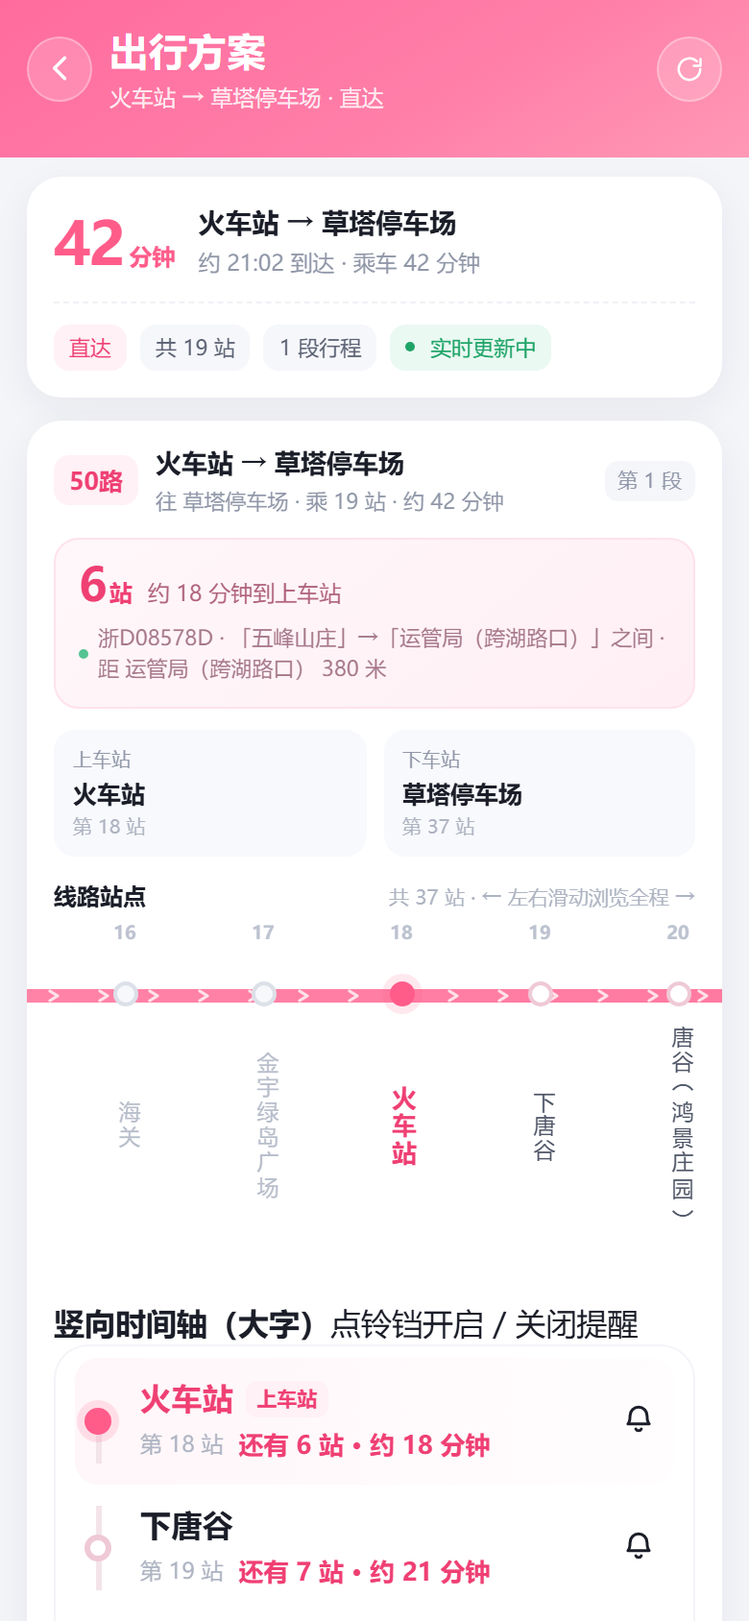
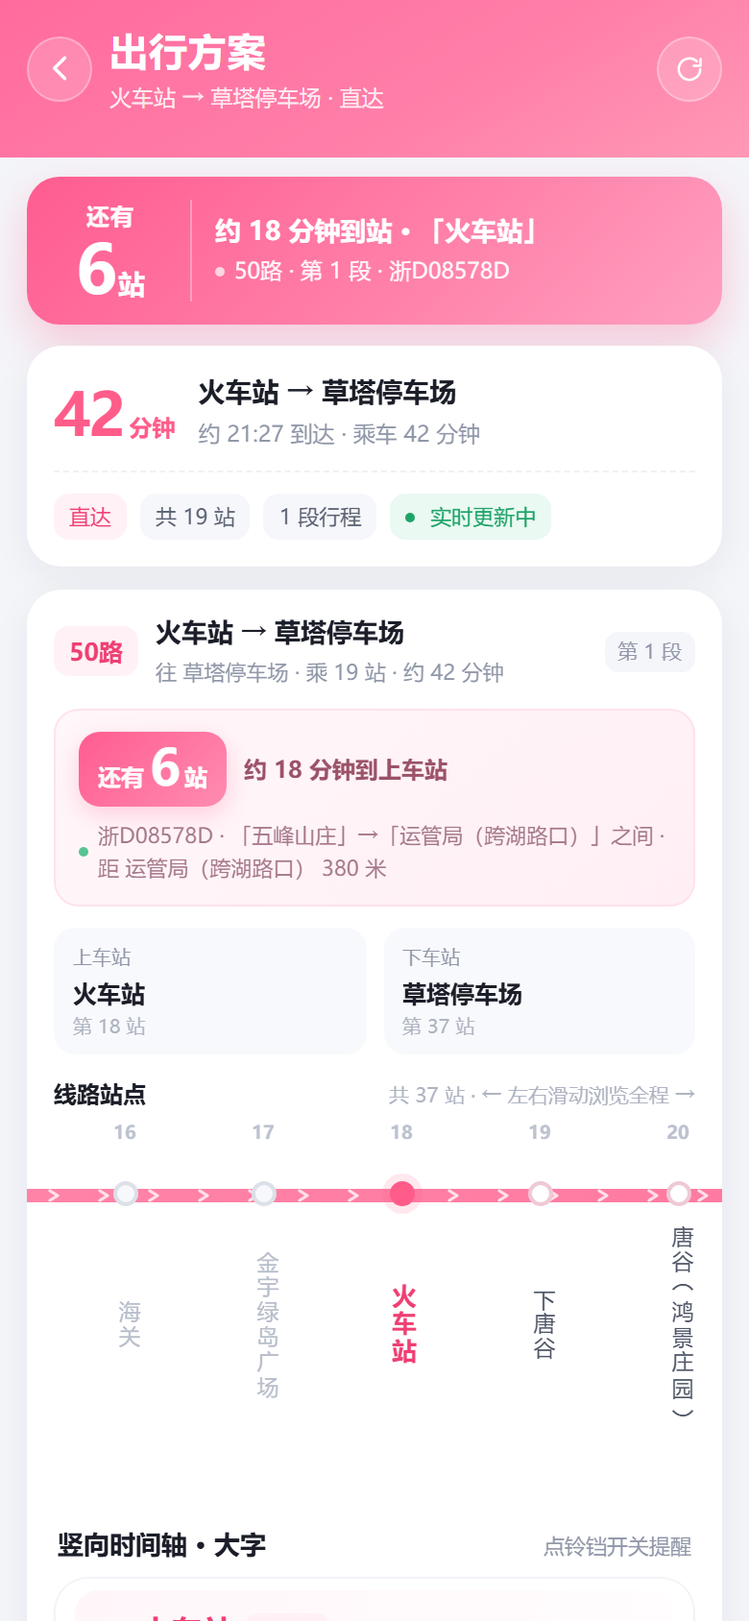
feat(plan): 方案详情突出「还有 N 站」实时提示
- 详情页顶部新增粉色渐变实时高亮条：左「还有 N 站」35px 大字，右「约 X 分钟到站 · 站名」+ 线路/段序/车牌，点击跳到对应分段
- 分段实时块剩余站改为白字粉底胶囊（26px 数字），弱化次要信息层级
- 竖向时间轴上车站行的「还有 N 站」加粗放大到 14.5/15.5px
- 修复「竖向时间轴 · 大字」标题与右侧提示无间距粘连
- E2E 增至 165 项（新增高亮条 4 项，方案详情定向 mock 保证可断言）

diff --git a/www/css/app.css b/www/css/app.css
@@ -251,12 +251,28 @@ input::placeholder{color:#B4BAC8}
 .pl-leg-t b{display:block;font-size:13.5px;font-weight:650;white-space:nowrap;overflow:hidden;text-overflow:ellipsis}
 .pl-leg-t span{display:block;font-size:11px;color:var(--ink-3);margin-top:2px}
 .pl-leg-idx{font-size:10.5px;color:var(--ink-3);background:#F5F6FA;padding:3px 7px;border-radius:7px;white-space:nowrap}
+/* 顶部实时到站高亮条：还剩几站 · 大字突出 */
+.pl-hl{display:flex;align-items:center;gap:12px;margin:0 0 11px;padding:12px 14px;border-radius:17px;
+  background:linear-gradient(135deg,#FF5C90 0%,#FF84AC 62%,#FFA0C0 100%);color:#fff;
+  box-shadow:0 9px 22px rgba(255,92,144,.3)}
+.pl-hl-l{flex:0 0 auto;min-width:72px;padding-right:12px;border-right:1px solid rgba(255,255,255,.34);
+  display:flex;flex-direction:column;align-items:center}
+.pl-hl-txt{font-size:12px;font-weight:700;opacity:.96;letter-spacing:.5px}
+.pl-hl-num{display:flex;align-items:baseline;gap:2px;font-size:35px;font-weight:800;line-height:1.04;letter-spacing:-1.5px}
+.pl-hl-num em{font-style:normal;font-size:14px;font-weight:700;letter-spacing:0}
+.pl-hl-r{min-width:0;flex:1;display:flex;flex-direction:column;gap:4px}
+.pl-hl-r b{font-size:13.5px;font-weight:750;line-height:1.35}
+.pl-hl-r span{font-size:11.5px;opacity:.94;display:flex;align-items:center;gap:5px;
+  white-space:nowrap;overflow:hidden;text-overflow:ellipsis}
+.pl-hl-r .live-dot{background:#fff}
 .pl-live{margin-top:11px;background:linear-gradient(140deg,#FFF7FA,#FFEFF4);border:1px solid #FFE2EB;border-radius:13px;padding:11px 12px}
-.pl-live-main{display:flex;align-items:baseline;gap:8px;flex-wrap:wrap}
-.pl-remain{font-size:12px;color:var(--pink-deep);font-weight:700}
-.pl-remain b{font-size:24px;line-height:1;letter-spacing:-1px;margin-right:2px}
-.pl-eta{font-size:11.5px;color:#B0637D}
-.pl-live-sub{font-size:11px;color:#A6788A;margin-top:6px;display:flex;align-items:center;gap:5px;line-height:1.5}
+.pl-live-main{display:flex;align-items:center;gap:9px;flex-wrap:wrap}
+.pl-remain{display:inline-flex;align-items:baseline;gap:2px;background:linear-gradient(135deg,#FF5C90,#FF8CB0);color:#fff;border-radius:11px;padding:5px 10px 7px;box-shadow:0 4px 12px rgba(255,92,144,.26)}
+.pl-remain i{font-style:normal;font-size:12px;font-weight:700;opacity:.96}
+.pl-remain b{font-size:26px;line-height:1;letter-spacing:-1px;margin:0 1px}
+.pl-remain em{font-style:normal;font-size:12px;font-weight:700}
+.pl-eta{font-size:12px;color:#9B5268;font-weight:700}
+.pl-live-sub{font-size:11px;color:#A6788A;margin-top:7px;display:flex;align-items:center;gap:5px;line-height:1.5}
 .live-dot{width:5px;height:5px;border-radius:50%;background:var(--green);flex:0 0 auto;animation:blink 1.6s infinite}
 .pl-live.empty{background:#F7F8FB;border-color:#EEF0F5}
 .pl-live.empty .pl-live-main b{font-size:12.5px;color:var(--ink-2)}
@@ -272,6 +288,10 @@ input::placeholder{color:#B4BAC8}
 .pl-hop b{display:block;font-size:12.5px;font-weight:650;margin-top:2px;white-space:nowrap;overflow:hidden;text-overflow:ellipsis}
 .pl-hop .ord{display:block;font-size:10px;color:#AEB4C2;margin-top:1px}
 .pl-strip-h{display:flex;align-items:baseline;justify-content:space-between;gap:8px;margin:12px 0 2px}
+.pl-stops{margin-top:14px}
+.pl-stops-h{display:flex;align-items:baseline;justify-content:space-between;gap:12px;margin:0 2px 7px}
+.pl-stops-h b{font-size:13.5px;font-weight:750;color:var(--ink);flex:0 0 auto;white-space:nowrap}
+.pl-stops-h span{font-size:11px;color:var(--ink-3);flex:0 0 auto;white-space:nowrap}
 .pl-strip-h b{font-size:12px;font-weight:700}
 .tl-hint{display:block;font-size:10.5px;color:#AEB4C2;text-align:center;padding:2px 0 0}
 .pl-strip-h .tl-hint{padding:0;text-align:right}
@@ -453,6 +473,9 @@ input::placeholder{color:#B4BAC8}
 .vt-eta{font-size:13px;color:var(--ink-2);font-weight:600}
 .vt-eta.live{color:var(--pink-deep);font-weight:700}
 .vt-eta.dim{color:#A9B0BE;font-weight:500}
+/* 上车站行的「还有 N 站」加粗放大，老人一眼看到 */
+.vt-row.board .vt-eta.live{font-size:14.5px;font-weight:800;color:#D6336C}
+.vt-plan .vt-row.board .vt-eta.live{font-size:15.5px}
 .vt-bus{display:inline-flex;align-items:center;gap:3px;font-size:11.5px;font-weight:700;color:#fff;background:var(--pink);padding:2px 7px;border-radius:7px}
 .vt-bus .ico{width:12px;height:12px;stroke-width:2.2}
 .vt-bell{

diff --git a/www/js/plan.js b/www/js/plan.js
@@ -21,6 +21,37 @@
     return d.vehicles.length ? ZJ.RT.arrivalsTo(leg.dir, d.vehicles, leg.fromOrder) : [];
   }
 
+  /* 各段中「最快到上车站」的一辆，用于顶部高亮条 */
+  function soonest() {
+    let best = null;
+    P.plan.legs.forEach((leg, i) => {
+      const b = arrivals(leg)[0];
+      if (!b) return;
+      const remain = b.atStation ? 0 : b.remain;
+      if (!best || remain < best.remain) {
+        best = {
+          remain: remain, minutes: b.minutes, atStation: !!b.atStation,
+          plate: b.v.plate || '', leg: leg, idx: i
+        };
+      }
+    });
+    return best;
+  }
+
+  /* 顶部「还剩几站」高亮条：老年用户最先要看的一条信息 */
+  function liveHl() {
+    const s = soonest();
+    if (!s) return '';
+    const eta = s.atStation ? '车已到站，请上车' : '约 ' + s.minutes + ' 分钟到站';
+    return '<div class="pl-hl" data-act="pl-hl" data-idx="' + s.idx + '">' +
+      '<div class="pl-hl-l"><span class="pl-hl-txt">' + (s.remain === 0 ? '车已到' : '还有') + '</span>' +
+      '<span class="pl-hl-num">' + s.remain + '<em>站</em></span></div>' +
+      '<div class="pl-hl-r"><b>' + eta + ' · 「' + ZJ.esc(s.leg.from) + '」</b>' +
+      '<span><i class="live-dot"></i>' + ZJ.esc(s.leg.line) + ' · 第 ' + (s.idx + 1) + ' 段' +
+      (s.plate ? ' · ' + ZJ.esc(s.plate) : '') + '</span></div>' +
+      '</div>';
+  }
+
   /* ---------------- 汇总 ---------------- */
   function renderSummary() {
     const p = P.plan;
@@ -43,7 +74,7 @@
         '<button data-act="plan-refresh">刷新</button></div>';
     }
 
-    $('plSummary').innerHTML = banner +
+    $('plSummary').innerHTML = banner + liveHl() +
       '<section class="card pl-sum">' +
       '<div class="pl-sum-top"><div class="big">' + p.total + '<small>分钟</small></div>' +
       '<div class="pl-sum-meta"><b>' + ZJ.esc(P.from) + ' → ' + ZJ.esc(P.to) + '</b>' +
@@ -71,9 +102,10 @@
     const list = arrivals(leg);
     const best = list[0];
     if (best) {
+      const remain = best.atStation ? 0 : best.remain;
       const etaTxt = best.atStation ? '车辆已到上车站' : '约 ' + best.minutes + ' 分钟到上车站';
       return '<div class="pl-live">' +
-        '<div class="pl-live-main"><span class="pl-remain"><b>' + (best.atStation ? '0' : best.remain) + '</b>站</span>' +
+        '<div class="pl-live-main"><span class="pl-remain"><i>' + (remain === 0 ? '已到' : '还有') + '</i><b>' + remain + '</b><em>站</em></span>' +
         '<span class="pl-eta">' + ZJ.esc(etaTxt) + '</span></div>' +
         '<div class="pl-live-sub"><i class="live-dot"></i>' + ZJ.esc(best.v.plate || '车辆') + ' · ' + ZJ.esc(ZJ.RT.positionText(dir, best.v)) + '</div>' +
         '</div>';
@@ -236,5 +268,11 @@
       render(true);
       if (ZJ.Home) ZJ.Home.renderReminders();
     });
+  });
+  /* 点顶部高亮条 → 滚到对应乘车段 */
+  ZJ.act('pl-hl', (el) => {
+    const i = Number(el.dataset.idx) || 0;
+    const card = document.querySelectorAll('#plLegs .pl-leg')[i];
+    if (card) card.scrollIntoView({ behavior: 'smooth', block: 'start' });
   });
 })();

diff --git a/docs/自测报告.md b/docs/自测报告.md
@@ -1,9 +1,10 @@
-# 诸暨公交 · 轻量双 Tab 版 —— 自测报告
+# 诸暨公交 · 易用版 —— 自测报告
 
-- 版本：v1.0.0（包名 `com.zhuji.bus.lite`，versionCode 1）
+- 版本：v1.1.0（包名 `com.zhuji.bus.lite`，versionCode 2，versionName 1.1.0）
 - 基线：`byazlle/zhuji-bus-live` v2.0.0 / APK 1.1.1
+- 前一版本：v1.0.0（105 项断言），本版在其上重构换乘方案与站点展示
 - 测试日期：2026-11-18
-- 测试结论：**105 项断言全部通过，控制台 0 个 JS 错误**
+- 测试结论：**161 项断言全部通过，控制台 0 个 JS 错误**
 
 ---
 
@@ -15,7 +16,7 @@
 | 浏览器 | Chrome（puppeteer-core 24，headless） |
 | 视口 | 390 × 844，DPR 2，`isMobile + hasTouch`（iPhone 12/13 尺寸） |
 | 定位 | 注入坐标 29.7136, 120.2362（诸暨市区），并授予 geolocation 权限 |
-| 实时接口 | 诸暨公交官方接口（真实请求）+ 定向 mock（验证有车/无车/网络异常分支） |
+| 实时接口 | 诸暨公交官方接口（真实请求）+ 定向 mock（验证有车/无车/接口失效/降级恢复分支） |
 | 安卓构建 | JDK 17.0.21 / Android SDK 34 / Build-Tools 34.0.0 / Gradle 8.2.1 / Capacitor 6.2.1 |
 
 ---
@@ -24,66 +25,87 @@
 
 | 分组 | 断言数 | 结果 | 覆盖内容 |
 |---|---:|---|---|
-| 基础加载与静态数据 | 10 | ✅ | 标题、底部仅 2 个 Tab、Tab 名称、395 条线路、3061 站点、779 方向、22186 条站序、首页默认展示、线路列表渲染、无公告/我的 Tab |
-| 定位与附近站点 | 5 | ✅ | 定位成功、最近站名胶囊、附近列表 ≥3 条、距离格式、按距离升序 |
+| 基础加载与静态数据 | 10 | ✅ | 标题、底部仅 2 个 Tab、Tab 名称、395 条线路、3061 站点、779 方向、首页默认展示、线路列表渲染、无公告/我的 Tab |
+| 首页栏目精简与定位 | 6 | ✅ | `#nearbyCard` 已移除、`.nb-row` 数量为 0、定位胶囊已移除、首页子元素顺序 `收藏 → 提醒 → 线路列表`、搜索框仍在页头、`ZJ.Geo` 定位能力保留 |
 | 线路搜索 | 5 | ✅ | 输入 `23` 命中 `23路`、匹配计数、无结果空态、清空恢复、清除按钮显隐 |
-| 线路实时页 | 14 | ✅ | 进入详情、标题、方向与站数、38 站列表、38 个时间轴节点、车辆标记数量、车牌、实时标记、票价、等车站剩余 1 站、预计分钟、剩余距离、等车站同步、逐站倒计时 |
+| 线路实时页 | 14 | ✅ | 进入详情、标题、方向与站数、车辆标记数量、车牌、实时标记、票价、等车站剩余 1 站、预计分钟、剩余距离、等车站同步、逐站倒计时、数据模式标签 |
+| 竖屏横向站点列表 | 15 | ✅ | 内容宽 > 可视宽、`overflow-x: auto`、可滚动到右侧站点、站名 `writing-mode: vertical-rl`、进入自动居中焦点站、滑动提示「共 38 站」、点击站点条设为等车站、线路页无横向溢出、**竖向时间轴 38 行 / 位于横向条下方 / 标题标注大字 / 站名 ≥15px / 行高 ≥56px / 连续轴线 ≥3px / 铃铛 ≥40px / 标记车辆位置** |
 | 上下行切换 | 3 | ✅ | 方向文案变化、切换后站点仍完整、切换提示 |
 | 收藏 | 4 | ✅ | 收藏线路写入、首页收藏区展示、点击再进详情、取消收藏后移除 |
 | 发车时刻表 | 3 | ✅ | 弹层打开、班次时间、班次数说明 |
 | 本地到站提醒 | 16 | ✅ | 三种提醒方式、无推送说明、切换「下一站提醒」、写入本地、等车站显示「提醒中」、**剩 1 站触发弹窗**、弹窗文案含车牌与站名、**调用震动 API**、关闭弹窗、标记已提醒、首页提醒卡片、管理弹层、删除记录 |
-| 站点实时页 | 13 | ✅ | 站名、途经方向数、距我距离、线路卡片 ≥10、有车方向汇总、预计到站、进入线路页并带等车站、收藏站点、横向溢出 |
-| 换乘规划与历史 | 16 | ✅ | 切 Tab、起终点空态、站名搜索选站、生成方案、方案标签、耗时、乘车段、免责、历史保存/渲染、方案切换、历史重查、删除单条、起终点相同提示 |
-| 边界场景 | 9 | ✅ | 站名搜索无结果、网络异常时显示错误卡+重试、静态站序仍可用、页脚兜底说明、定位失败提示/重试/胶囊文案、定位失败页无溢出 |
-| 移动端适配与功能边界 | 6 | ✅ | 首页/去哪页无横向溢出、无地图 SDK/全局对象、无地图容器、无公告入口、无乘车码/反馈/推送/订阅入口 |
+| 站点实时页 | 12 | ✅ | 站名、途经方向数、距我距离、线路卡片 ≥10、有车方向汇总、预计到站、进入线路页并带等车站、收藏站点、横向溢出检查 |
+| 换乘规划与历史 | 13 | ✅ | 切 Tab、起终点空态、站名搜索选站、生成方案、方案标签、耗时、乘车段、免责、历史保存/渲染、方案切换、历史重查、删除单条、起终点相同提示 |
+| 方案详情页（分段实时 + 站点提醒） | 41 | ✅ | **点卡片进详情**、标题「出行方案」、副标题含起终点、分段卡片、总耗时大字、站数/段数、**分段实时车辆**、上下车站、该段站点条（可横向滚动 + 竖排站名）、**站点行铃铛**、**逐站到站时间**；**详情页竖向时间轴**（位于横向条下方 / ≥16px 站名 / ≥38px 铃铛 / 标记上车与下车）；**铃铛开提醒**（弹层含线路与站名 / 开启「下一站提醒」/ 高亮 / 写 localStorage）；**铃铛关提醒**（关闭入口 / 记录清空 / 取消高亮）；跳转分段线路页；**接口失效降级横幅 + 重试 + 分段卡片与提醒仍可用 → 恢复后实时数据回来**；**安卓返回键关闭详情页后仍停留在去哪页** |
+| 边界场景 | 13 | ✅ | 站名搜索无结果提示、无直达线路时给出换乘方案或空态、**接口全挂时显示「实时车辆暂不可用」错误卡 + 重试**、**顶部降级横幅含「自动降级」**、静态站序仍可用（竖向 ≥10 行）、静态站点条仍可横向滑动、页脚说明静态兜底、定位失败不影响首页渲染、定位失败状态记录、定位失败无附近站点残留、定位失败页无横向溢出 |
+| 移动端适配与功能边界 | 5 | ✅ | 首页/去哪页无横向溢出、无地图 SDK/全局对象、无地图容器、无公告入口、无乘车码/反馈/推送/订阅入口 |
 | 控制台 | 1 | ✅ | 运行期无 JS 错误（过滤网络资源加载噪声） |
 
-合计 **105** 项，全部通过。
+合计 **161** 项，全部通过。相较 v1.0.0 的 105 项，新增「首页栏目精简与定位」6 项、「竖屏横向站点列表」15 项、「方案详情页」41 项，原「定位与附近站点」分组因功能下线改为新的精简校验。
 
 ---
 
 ## 三、关键场景说明
 
-### 3.1 实时公交（车辆位置 / 剩余站 / 预计到站）
+### 3.1 换乘方案详情页（本版核心，对照参考图 5、6）
 
-- 使用官方真实接口验证：`火车站` 站点页在测试时段返回 **30 个方向有车**，逐条渲染车牌、位置文案、剩余站与分钟。
-- 使用定向 mock 验证确定性分支：等车站为线路第 11 站、车辆 `vehicleOrder=10`、`isArriveStation=0` 时，页面大字显示 **1 站**，副标题 `约 3 分钟 · 520 米`，时间轴车辆图标落在第 10 站与第 11 站之间。
-- 站序口径按官方定义处理：`vehicleOrder` 为「已驶离站」，剩余站数 = 目标站序号 − `vehicleOrder`；`vehicleOrder == 目标站` 且未停靠时视为刚离站，不计入。
+- 在「去哪」输入起终点生成方案后，方案卡片底部提示「查看分段实时公交与到站提醒」，整卡可点（`data-act="plan-open"`），索引切换按钮 `plan-idx` 阻断冒泡，不会误跳。
+- 详情页顶部汇总：总耗时大字、预计到达时间、共 N 站 / M 段、状态标签（`实时更新中` / `暂无在线车辆` / `静态数据`）。
+- 每一乘车段独立查询该方向实时车辆（并发 3 个请求，20 秒轮询），并按 `dirId` 缓存 `{vehicles, err, at}`；某段失败不影响其它段。
+- 分段卡片内容：线路徽标与方向、上车站→下车站、实时块（剩余站大字 + 约 X 分钟 + 车牌 + 位置文案，失败时橙色「实时数据不可用」+ 重新获取）、横向站点条（自动居中上车站）、竖向大字时间轴（标记上/下车）、「打开线路实时页」跳转。
+- 单段实时数据的口径与线路页一致：`vehicleOrder` 为「已驶离站」，剩余站数 = 目标站序号 − `vehicleOrder`；目标站与车辆同站且未停靠时视为刚离站。
 
-### 3.2 本地到站提醒
+### 3.2 老年友好竖向时间轴
 
-- 设置「下一站提醒」后写入 `localStorage`，等车站条显示「提醒中」。
-- 轮询到车辆剩 1 站时：弹窗出现（标题「车辆即将到站」，含车牌、站名、方向），同时调用 `navigator.vibrate([400,150,400,150,700])`（测试中替换 `navigator.vibrate` 计数为 1 次）。
-- 触发后提醒标记 `done`，首页卡片显示「已提醒 19:03」，管理弹层可删除。
-- 全程无 Notification / Service Worker / 推送 SDK 调用，符合「不做推送」约束。
+- 位置：横向时间轴正下方，标题「竖向时间轴 · 大字」，右侧提示「点铃铛开关提醒」。
+- 度量（E2E 断言实测值）：站名 ≥15px（详情页 ≥16px）、行高 ≥56px、轴线宽 3px 且连续、铃铛按钮 40×40px（详情页 ≥38px）。
+- 每行结构：轴线圆点 + 站名 + 序号 + 「还有 N 站 · 约 X 分钟」+ 车辆徽标（`停靠本站` / `正在本站 → 下一站`）+ 铃铛。
+- 车辆已过站时显示「车辆已过站」并灰化，不再显示分秒倒计时；本站已有车辆时不再重复显示分钟数，避免同一信息出现两次。
 
-### 3.3 边界与降级
+### 3.3 站点级提醒开关
+
+- 线路页与方案详情页共用同一弹层 `ZJ.Reminder.openSheet`，`rm-mode` / `rm-save` / `rm-cancel` 只在 `reminder.js` 注册一次，避免重复绑定导致的重复触发。
+- 开启后铃铛高亮（`.pl-bell.on`），提醒写入 `localStorage`（`zjbus.reminders.v1`），首页提醒卡片同步出现；关闭后铃铛取消高亮、记录清空。
+- 触发逻辑与 v1.0.0 一致：剩 1 站时弹窗 + `navigator.vibrate([400,150,400,150,700])`，全程无 Notification / Service Worker / 推送 SDK。
+
+### 3.4 横屏→竖屏的站点浏览方式
+
+- 站点列表改为竖屏横向滚动：`.tl-scroll{overflow-x:auto}`，内容宽 > 可视宽，可滚动到第 38 站；站名竖排（`writing-mode: vertical-rl`），已过站灰化、当前站高亮、车辆图标置于线路条上方。
+- 进入页面自动把焦点站（等车站/上车站）滚到可视区中间；用户滑动后提示文案变为「共 N 站 · 左右滑动浏览全程」。
+- 轮询刷新时保持滚动位置（`opt.restore`），不会因重绘跳回起点。
+
+### 3.5 边界与降级
 
 | 场景 | 表现 |
 |---|---|
-| 网络异常（车辆/详情/时刻表接口全部抛错） | 数据卡显示「实时车辆暂不可用」+ 错误原因 + 重新获取；站点序列、首末班、收藏、换乘照常可用；页脚注明「当前显示静态站点数据」 |
-| 定位被拒绝 | 附近站点卡片显示「定位失败，可能是权限未开启」+ 重新定位按钮；顶部胶囊「定位失败」；线路搜索不受影响 |
+| 实时接口连续 2 次失败 | `ZJ.Api.degraded = true`；线路页顶部 `#lineBanner`、详情页顶部 `.degrade-banner` 显示「实时数据已自动降级为静态数据」，附重试按钮；静态站序、首末班、收藏、换乘、站点提醒照常可用 |
+| 单段接口失败（详情页） | 该段显示橙色「实时数据不可用」+ 重新获取，其余段正常；汇总标签转为「静态数据」 |
+| 网络异常（全部接口抛错） | 数据卡显示「实时车辆暂不可用」+ 错误原因 + 重新获取；页脚注明「当前显示静态站点数据」 |
+| 定位被拒绝 | 首页正常渲染，`ZJ.Geo.state === 'fail'`，不再有附近站点模块残留，无横向溢出；去哪「我的位置」提示不可用 |
 | 站点搜索无结果 | 弹层显示「没有找到包含「…」的站点，换一个关键词试试」 |
 | 线路搜索无结果 | 线路区显示「没有找到「…」相关线路」 |
-| 起终点相同 | 点击查询提示「起点和终点不能是同一个站点」，不生成方案 |
-| 收班时段 | 数据卡显示「已收班 / 当前时段已收班（06:20–17:50）」，若已取到时刻表则给出下一班计划发车与预计到站，标注「静态时刻表估算」 |
+| 无直达线路 | 给出换乘方案；确实无方案时给出空态提示 |
+| 起终点相同 | 提示「起点和终点不能是同一个站点」，不生成方案 |
+| 收班时段 | 数据卡「已收班 / 当前时段已收班（06:20–17:50）」，若已取到时刻表则给出下一班计划发车与预计到站，标注「静态时刻表估算」 |
+| 安卓返回键 | 详情页优先响应 `popstate` 关闭，返回后仍停留在「去哪」页，Tab 状态不丢 |
 
-### 3.4 移动端适配
+### 3.6 移动端适配
 
-- 390×844 下 首页、去哪、线路页、站点页 `scrollWidth ≤ innerWidth`，无横向滚动。
-- 长站名在时间轴竖排最多 8 字后省略；站点列表单行省略；车牌/位置文案单行省略，不挤压右侧时间。
+- 390×844 下 首页、去哪、线路页、方案详情页 `scrollWidth ≤ innerWidth`，无横向滚动。
+- 竖向时间轴站名单行省略；横向时间轴竖排站名最多 8 字后省略；车牌/位置文案单行省略。
 - 底部 Tab 固定，含 `safe-area-inset-bottom`；全屏页与弹层使用历史栈，安卓返回键先关弹层再关页面。
 
-### 3.5 视觉验收（对照参考图 5、6）
+### 3.7 视觉验收（对照参考图 5、6）
 
 | 参考图特征 | 本项目实现 |
 |---|---|
-| 顶部渐变色头 + 返回/收藏/换向 | 粉色渐变头 `#FF6B9D → #FF98B6`，三个圆形半透明按钮 |
+| 顶部渐变色头 + 返回/收藏/换向 | 粉色渐变头 `#FF6B9D → #FF98B6`，圆形半透明按钮 |
 | 白色信息卡：起终点、首末班、票价、时刻表 | 一致，另加「全程公里数 / 上下行」 |
 | 大字「N 站」+ 分钟/公里 | 粉色 35px 大字 + 「约 X 分钟 · Y 公里」+ 实时车牌 |
 | 横向绿色线路条 + 白色箭头 + 竖排站名 + 站点序号 | 粉色线路条 + 白色箭头纹理 + 竖排站名 + 序号，已过站灰化、当前站高亮 |
 | 车辆位置图标 | 时间轴上方白色描边圆形巴士图标 + 指向线路条的三角 |
 | 底部操作栏 | 「我的等车站 · 换站 · 到站提醒」操作条 |
+| 方案详情分段实时 | 分段卡片 + 大字剩余站 + 车牌 + 该段站点条 + 竖向大字时间轴 |
 
 ---
 
@@ -91,34 +113,47 @@
 
 | 项 | 结果 |
 |---|---|
-| 构建命令 | `gradle assembleRelease`（AGP 8.2.1 / Gradle 8.2.1 / JDK 17） |
-| 产物 | `android/app/build/outputs/apk/release/app-release.apk`（约 3.0 MB） |
-| 签名 | `apksigner verify` 通过，证书 `CN=Zhuji Bus Live` |
-| 包名/版本 | `com.zhuji.bus.lite`，versionCode 1，versionName 1.0.0 |
+| 同步命令 | `npx cap sync android`（157s，复制 `www` → `android/app/src/main/assets/public`） |
+| 构建命令 | `gradle assembleRelease --no-daemon`（AGP 8.2.1 / Gradle 8.2.1 / JDK 17.0.21） |
+| 产物 | `android/app/build/outputs/apk/release/app-release.apk`，**3,128,103 字节（约 3.0 MB）** |
[1 lines of base64/hex data omitted]
+| 签名 | `apksigner verify` 通过，证书 `CN=Zhuji Bus Live`（SHA-256 `552bcabd…5d0d29b`），与 v1.0.0 同一密钥，可覆盖升级 |
+| 包名/版本 | `com.zhuji.bus.lite`，versionCode 2，versionName 1.1.0 |
 | 最低/目标 SDK | minSdk 22（Android 5.1）/ targetSdk 34 |
 | 权限 | INTERNET、ACCESS_FINE_LOCATION、ACCESS_COARSE_LOCATION、VIBRATE |
-| 应用名 | 诸暨公交（`application-label` 校验通过） |
+| 应用名 | 诸暨公交（`aapt2 dump badging` → `application-label:'诸暨公交'`，`launchable-activity: com.zhuji.bus.lite.MainActivity`） |
 | 图标/启动图 | 粉色渐变 + 白色巴士，含 adaptive icon 前景层与各密度启动图 |
 
 > 本机无 Android 模拟器/真机连接，未做安装后的人工点按；APK 结构与签名已通过 `aapt2 dump badging`、`apksigner verify` 校验，WebView 内的页面行为与网页端一致（同一份 `www/` 资源）。
 
 ---
 
-## 四点五、发布后校验（线上）
+## 五、发布后校验（线上）
 
 | 项目 | 结果 |
 |---|---|
-| 源码仓库 | `https://github.com/0124577/zhuji-bus-lite` → HTTP 200 |
-| 网页地址 | `https://0124577.github.io/zhuji-bus-lite/` → HTTP 200，Pages 状态 `built` |
-| 安装包 | Release `v1.0.0` 资产 `zhuji-bus-lite-v1.0.0.apk` → HTTP 200，3,120,141 字节 |
-| APK 一致性 | 线上下载件 SHA-256 = 本地构建件 `ebe7d055…c4d751`，`aapt2 badging` 复验包名/版本/SDK/权限一致 |
-| 线上浏览器校验 | `node scripts/verify-live.mjs`：9/9 通过，0 控制台报错、0 失败请求 |
+| 源码仓库 | `https://github.com/0124577/zhuji-bus-easy` → HTTP 200 |
+| 网页地址 | `https://0124577.github.io/zhuji-bus-easy/` → HTTP 200（10,791 字节），Pages 状态 `built`，分支 `gh-pages` + 根路径 |
+| 安装包 | Release `v1.1.0` 资产 `zhuji-bus-easy-v1.1.0.apk` → HTTP 200，**3,128,103 字节**（与本地构建件字节数一致） |
+| 线上浏览器校验 | `node scripts/verify-live.mjs`：**11/11 通过**，0 控制台报错、0 失败请求 |
 
-线上校验实际断言：标题正确；静态数据 395 线 / 779 向 / 3061 站；Tab 仅「首页 / 去哪」；DOM 无地图 SDK 引用；Tab 切换生效；在线打开「1路」详情渲染 29 个途经站点；控制台与网络无异常。
+线上校验实际断言：
+
+1. 页面标题含「诸暨」
+2. 运行环境存在 `ZJ`
+3. 静态数据 395 线 / 779 向 / 3061 站
+4. 底部 Tab 仅「首页 / 去哪」
+5. DOM 无地图 SDK 引用
+6. 切到「去哪」生效
+7. 在线打开「1路」详情：竖向时间轴 29 行，数据模式 `api`（真实接口）
+8. 横向时间轴 `overflow-x: auto` 且内容宽 > 可视宽，29 个站点节点
+9. 首页已无附近站点栏目（`#nearbyCard` / `.nb-row` 均为 0）
+10. 无控制台报错
+11. 无失败请求
 
 ---
 
-## 五、复现方式
+## 六、复现方式
 
 ```bash
 # 1. 启动静态站点
@@ -132,15 +167,19 @@ python scripts/extract-data.py
 
 # 4. 重新打包 APK
 npx cap sync android
-cd android && ./gradlew assembleRelease
+cd android && JAVA_HOME=/path/to/jdk17 gradle assembleRelease
+
+# 5. 校验线上部署
+node scripts/verify-live.mjs https://0124577.github.io/zhuji-bus-easy/
 ```
 
 ---
 
-## 六、遗留与说明
+## 七、遗留与说明
 
-1. 官方实时接口在夜间收班后返回空车辆列表，属数据真实状态，页面按「已收班」呈现，不使用假数据填充。
-2. 提醒为前台轮询（15 秒），App 退到后台或锁屏不触发；这是「本地提醒、不做推送」的取舍。
-3. 无地图渲染，附近站点距离为直线距离，换乘耗时为静态里程估算。
+1. 官方实时接口在夜间收班后返回空车辆列表，属数据真实状态，页面按「已收班」/「暂无在线车辆」呈现，不使用假数据填充。
+2. 提醒为前台轮询（线路页 15 秒、方案详情页 20 秒），App 退到后台或锁屏不触发；这是「本地提醒、不做推送」的取舍。
+3. 无地图渲染，换乘耗时为静态里程估算，并非路况实时耗时。
 4. 静态快照需随官方线路调整重新生成（`scripts/extract-data.py` 依赖 v2.0.0 基线 `index.html`）。
 5. 部分线路官方时刻表接口返回空数组，此时仅展示首末班与实时车辆。
+6. 方案详情页对每段并发 3 个请求，跨 2 段以上的长链路在弱网下首屏会略慢，已有分段骨架占位与失败重试。
